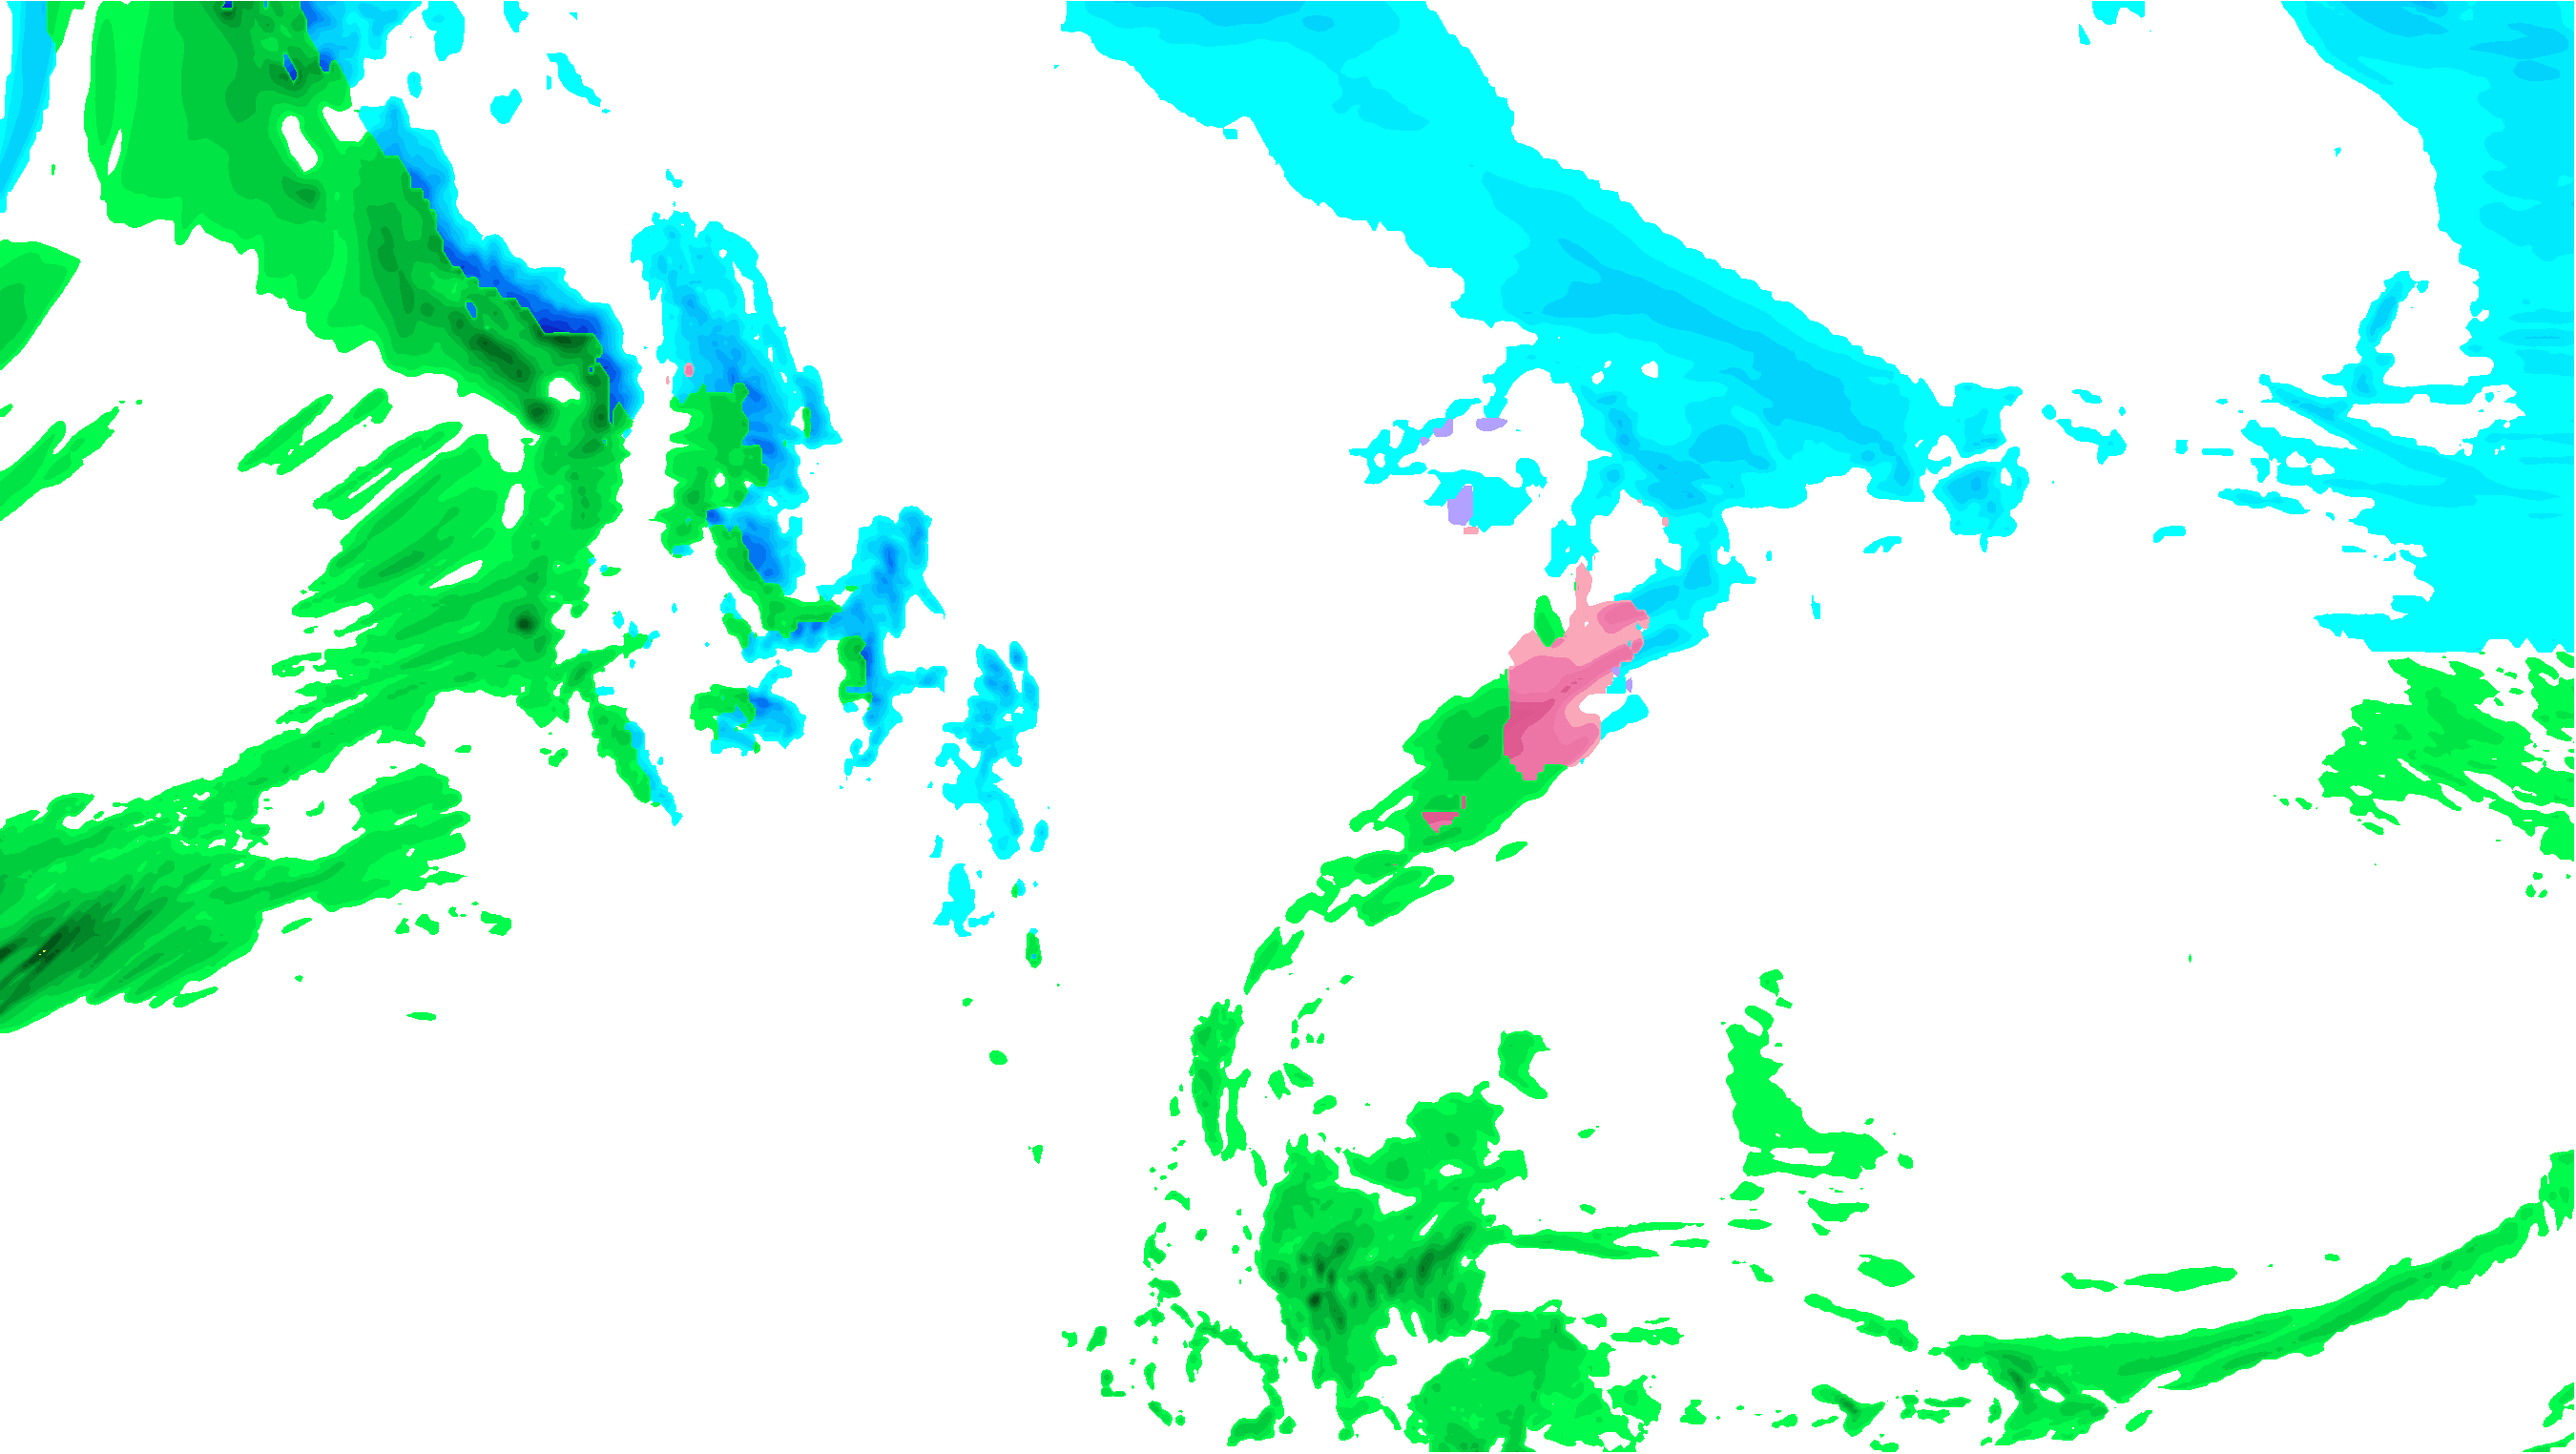
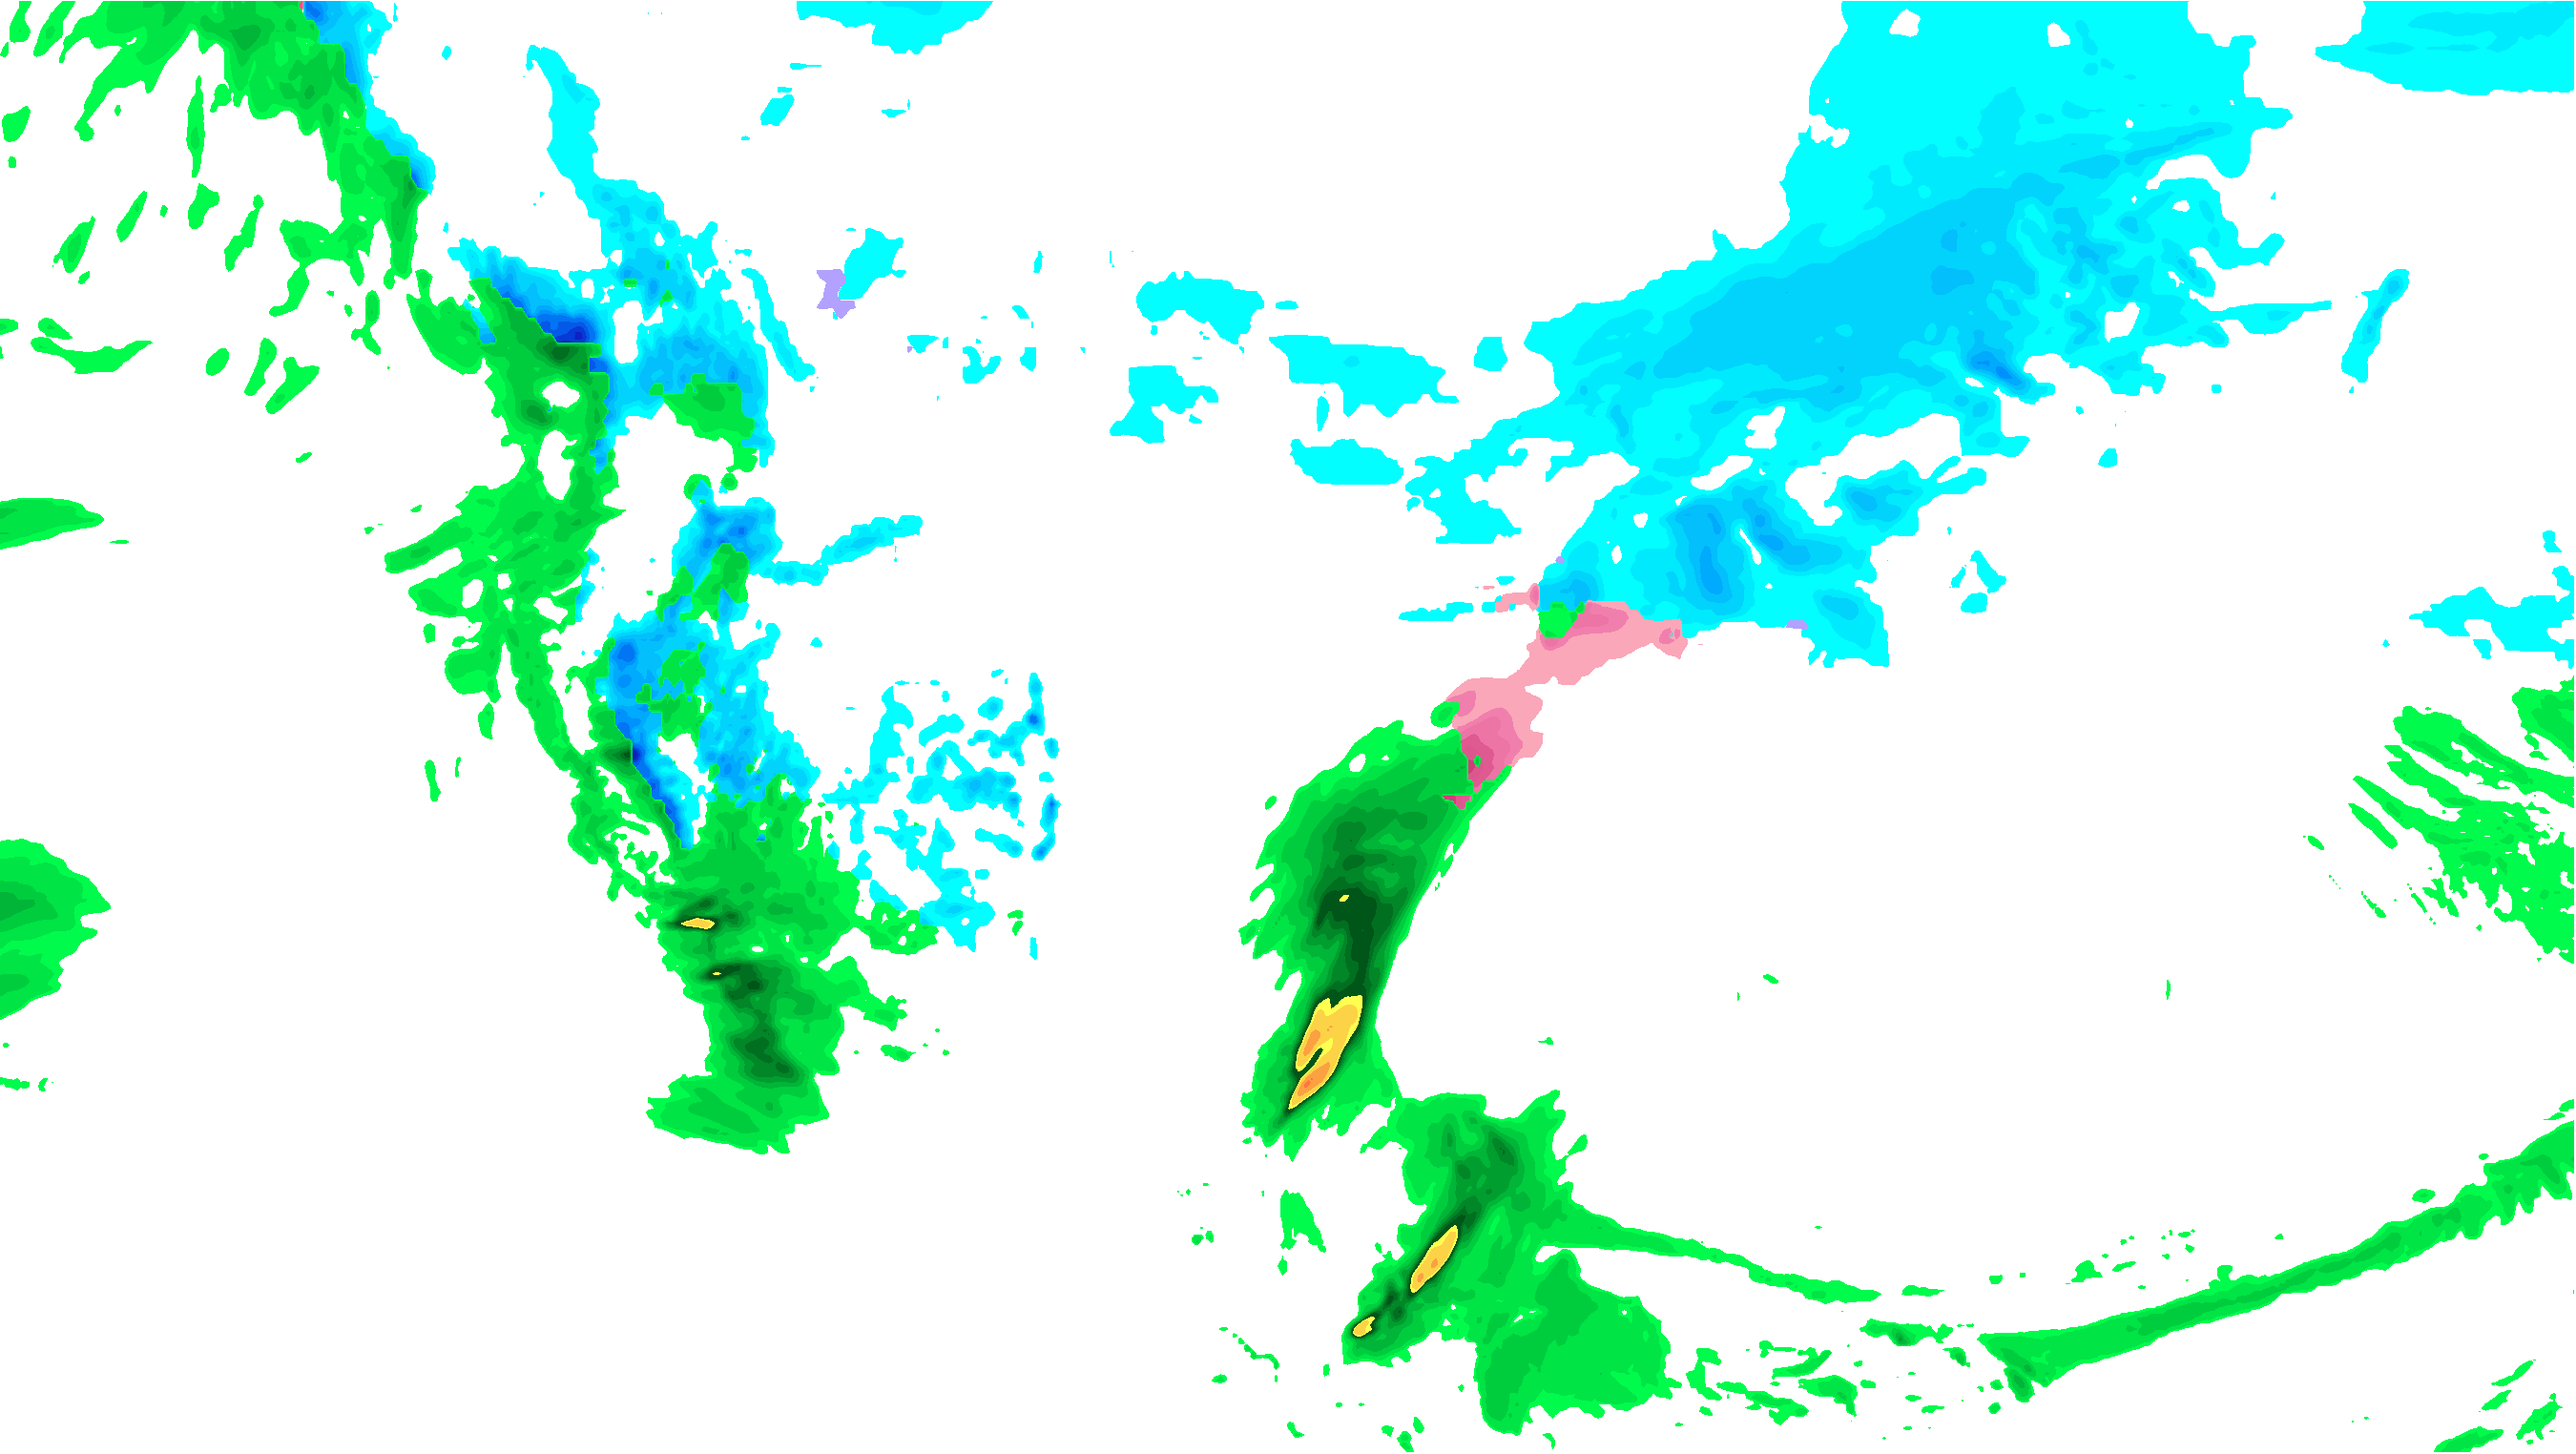
January 21, 2024 Update
Push new maps

diff --git a/index.html b/index.html
@@ -18,17 +18,17 @@
             <div id="map" class="webmap-new"></div>
           </div>
           <div class="map-info-embed">
-            <p id="currentDate" class="slider-header">Jan 14, 2024, 01 PM EST</p>
+            <p id="currentDate" class="slider-header">Jan 21, 2024, 7 AM EST</p>
           </div>
           <div class="sliderOverlay">
-            <input type="range" id="dateSlider" class="slider" min="0" max="39"" value="0" step="1">
+            <input type="range" id="dateSlider" class="slider" min="0" max="39" value="0" step="1">
           </div>
         </div>
         <img src="./precip-type-legend.png" id="legend" style="width:90%;margin-left:auto;margin-right:auto;display:block;">
       </div>
       <div class="right-div">
         <div class="map-layers">
-          <p><u>GFS 0.25 Degree</u></p>
+          <p><u>GFS v16.3</u></p>
           <ul class="checkbox-list">
             <li>
               <input type="checkbox" id="preciptype" name="weather" value="preciptype" checked>

diff --git a/main.js b/main.js
@@ -22,8 +22,8 @@ map.addControl(new mapboxgl.GeolocateControl({
 const dateTimes = [];
 
 // Set the start and end date
-const startDate = new Date('2024-01-14T18:00:00');
-const endDate = new Date('2024-01-30T23:00:00');
+const startDate = new Date('2024-01-21T12:00:00');
+const endDate = new Date('2024-02-10T23:00:00');
 
 // Loop through the hours between start and end dates
 let currentDate = startDate;

diff --git a/UCAR-GFS-P-Type.py b/UCAR-GFS-P-Type.py
@@ -1,15 +1,138 @@
+import os
+import glob
 import pygrib
+import numpy as np
 import xarray as xr
-import urllib.request
 import matplotlib.pyplot as plt
-from io import BytesIO
-from eccodes import *
+import cartopy.crs as ccrs
+from skimage.transform import resize
+import monarchlibrary as ml
+import urllib.request
+from datetime import datetime
 
-# ds = xr.open_dataset('./Data/GFS/MostRecent/gfs.t06z.atmf000.nc')
-                     
-# print(ds.ugrd)
+def iCheck(i):
+    i = str(i)
+    if len(i)==1:
+        i = '00'+i
+    elif len(i)==2:
+        i = '0'+i
+    return i
 
-ds = pygrib.open('./Data/GFS/MostRecent/gfs.t06z.sfluxgrbf013.grib2')
+def createMap():
+    # Initialize map
+    fig = plt.figure(figsize=(9, 9))
+    fig.tight_layout()
+    ax = plt.axes(projection=ccrs.Mercator()) # Change CRS here as needed
+    
+    # Set desired map extent
+    conus_wide = [-143.0,-50.2,16.5,56.8]
+    conus_extent = [-109.38,-59.91,26.43,51.69]
+    extent = conus_wide
+    ax.set_extent(extent,ccrs.PlateCarree())
+    
+    return ax, extent
+    
+def readLocalData(data_path,extent):
+    # Open the GRIB file
+    data_path = data_path
+    ds = pygrib.open(data_path)
 
-for var in ds:
-    print(var)
+    # Complete precipitation rate dataset
+    ds_prate = ds.select(name='Precipitation rate')[0]
+    
+    return ds_prate.data(lat1=extent[2],lat2=extent[3],lon1=extent[0]+360,lon2=extent[1]+360)
+
+def readCloudData(extent,prateShape,i):
+    # Open the NOMADS GFS file
+    ds = xr.open_dataset('http://nomads.ncep.noaa.gov:80/dods/gfs_0p25/gfs20240121/gfs_0p25_06z')
+        
+    cropped_ds = ds.sel(lat=slice(extent[2],extent[3]), lon=slice(extent[0]+360,extent[1]+360))
+    
+    #crain = np.nanmean(cropped_ds.crainsfc[0:2,:,:],axis=0)
+    #csnow = np.nanmean(cropped_ds.csnowsfc[0:2,:,:],axis=0)
+    #czr = np.nanmean(cropped_ds.cfrzrsfc[0:2,:,:],axis=0)
+    #cip = np.nanmean(cropped_ds.cicepsfc[0:2,:,:],axis=0)
+    
+    crain = cropped_ds.crainavesfc[int(int(i)/3),:,:]
+    csnow = cropped_ds.csnowavesfc[int(int(i)/3),:,:]
+    czr = cropped_ds.cfrzravesfc[int(int(i)/3),:,:]
+    cip = cropped_ds.cicepavesfc[int(int(i)/3),:,:]
+    
+    time = datetime.strptime(str(crain.time.data)[0:13],"%Y-%m-%dT%H")
+        
+    crain_resize = resize(crain,prateShape,order=1)
+    csnow_resize = resize(csnow,prateShape,order=1)
+    czr_resize = resize(czr,prateShape,order=1)
+    cip_resize = resize(cip,prateShape,order=1)
+    
+    return crain_resize, csnow_resize, czr_resize, cip_resize, time
+
+def buildMap(i, ax, extent):            
+    # Split out precip rate, latitude, and longitude
+    prate, lat, lon = readLocalData(f'./Data/GFS/MostRecent/{i}.grib2',extent)
+
+    crain, csnow, czr, cip, time = readCloudData(extent,np.array(prate).shape,i)
+
+    prate_rain = np.where(crain[::-1]>0.5,prate,0)
+    prate_snow = np.where(csnow[::-1]>0.5,prate,0)
+    prate_zr = np.where(czr[::-1]>0.5,prate,0)
+    prate_ip = np.where(cip[::-1]>0.5,prate,0)
+
+    # Define color variables for mapping
+    cmap_rain = ml.mapStyle.colors.cmap_rain
+    cmap_snow = ml.mapStyle.colors.cmap_snow
+    cmap_zr = ml.mapStyle.colors.cmap_zr
+    cmap_ip = ml.mapStyle.colors.cmap_ip
+    levels_rain = ml.mapStyle.colors.levels_rain
+    levels_snow = ml.mapStyle.colors.levels_snow
+    levels_zr = ml.mapStyle.colors.levels_zr
+    levels_ip = ml.mapStyle.colors.levels_ip
+    norm_rain = ml.mapStyle.colors.norm_rain
+    norm_snow = ml.mapStyle.colors.norm_snow
+    norm_zr = ml.mapStyle.colors.norm_zr
+    norm_ip = ml.mapStyle.colors.norm_ip
+       
+    # Plot prate on map using contour fill         
+    
+    cs = ax.contourf(lon, lat, ((prate_snow*0.039370)*60*60), cmap=cmap_snow, norm=norm_snow, levels=levels_snow, transform=ccrs.PlateCarree())
+    czr = ax.contourf(lon, lat, ((prate_zr*0.039370)*60*60), cmap=cmap_zr, norm=norm_zr, levels=levels_zr, transform=ccrs.PlateCarree())
+    cip = ax.contourf(lon, lat, ((prate_ip*0.039370)*60*60), cmap=cmap_ip, norm=norm_ip, levels=levels_ip, transform=ccrs.PlateCarree())
+    cr = ax.contourf(lon, lat, ((prate_rain*0.039370)*60*60), cmap=cmap_rain, norm=norm_rain, levels=levels_rain, transform=ccrs.PlateCarree())
+
+    # Remove white space
+    plt.gca().set_axis_off()
+    plt.subplots_adjust(top = 1, bottom = 0, right = 1, left = 0, hspace = 0, wspace = 0)
+    plt.margins(0,0)
+    plt.gca().xaxis.set_major_locator(plt.NullLocator())
+    plt.gca().yaxis.set_major_locator(plt.NullLocator())
+
+    # Save map
+    plt.savefig(f'./Exports/GFS/ptype/{time.strftime("%Y%m%d%H")}.png',bbox_inches='tight',dpi=300,pad_inches=0, transparent=True)
+    
+    # Remove the rain contours
+    for coll1, coll2, coll3, coll4 in zip(cr.collections,cs.collections,czr.collections,cip.collections):
+        coll1.remove()
+        coll2.remove()
+        coll3.remove()
+        coll4.remove()
+            
+def startScript():
+    files = glob.glob('./Data/GFS/MostRecent/*')
+    for f in files:
+        os.remove(f)
+        
+    files = glob.glob('./Exports/GFS/ptype/*')
+    for f in files:
+        os.remove(f)
+    
+    ax, extent = createMap() 
+
+    for i in np.arange(6,246,6):
+        i = iCheck(i)
+        print(i)
+        url = f'https://nomads.ncep.noaa.gov/pub/data/nccf/com/gfs/v16.3/gfs.20240121/06/atmos/gfs.t06z.sfluxgrbf{i}.grib2'
+        urllib.request.urlretrieve(url,f'./Data/GFS/MostRecent/{i}.grib2')
+        
+        buildMap(i,ax,extent)
+
+startScript()

diff --git a/monarchlibrary.py b/monarchlibrary.py
@@ -1,0 +1,41 @@
+# -*- coding: utf-8 -*-
+"""
+Created on Fri Jan 12 17:37:30 2024
+
+@author: Administrator
+"""
+
+import matplotlib.pyplot as plt
+from matplotlib.colors import BoundaryNorm
+
+class mapStyle:
+        class colors:
+            colors_rain = [(0.1,0.1,0.1,0),'#00FB4C','#00E445','#00CD3E','#00B537','#009E2E','#018628','#016F20','#005518','#FFFF50','#FCD347','#FBA141','#FF763B','#FF272B','#D80E3A','#B6093D','#900649','#C90DA9','#FF04DC']
+            cmap_rain = plt.cm.colors.ListedColormap(colors_rain)
+            levels_rain = [0,0.005,0.01,0.025,0.05,0.075,0.1,0.125,0.15,0.2,0.25,0.375,0.5,0.625,0.75,0.875,1,1.5,10]
+            norm_rain = BoundaryNorm(levels_rain, cmap_rain.N, clip=True)
+            
+            colors_snow = [(0.1,0.1,0.1,0),'#02FEFE','#00EAFD','#01D3FD','#03BFFC','#00AAFC','#0092FC','#0275F2','#0459E8','#073AD6','#0D23C4','#0A1DBB','#05159B','#291099','#490C92','#AC0F8B','#CC0D8F','#FF0C80']
+            cmap_snow = plt.cm.colors.ListedColormap(colors_snow)
+            levels_snow = [0,0.001,0.005,0.01,0.02,0.03,0.04,0.05,0.075,0.1,0.125,0.15,0.175,0.2,0.25,0.3,0.4,0.5,1]
+            norm_snow = BoundaryNorm(levels_snow, cmap_snow.N, clip=True)
+            
+            colors_zr = [(0.1,0.1,0.1,0),'#FAA7B9','#F17FAD','#EC75A6','#DE5A91','#DD578F','#D13D7B','#C6276C','#B80E61','#AA0547','#B90B44','#B71621','#CC1626','#CF1A1E','#DC2C09','#E53206','#FB4100','#FF5215']
+            cmap_zr = plt.cm.colors.ListedColormap(colors_zr)
+            levels_zr = [0,0.001,0.005,0.01,0.02,0.03,0.04,0.05,0.075,0.1,0.125,0.15,0.175,0.2,0.25,0.3,0.4,0.5,1]
+            norm_zr = BoundaryNorm(levels_zr, cmap_zr.N, clip=True)
+            
+            colors_ip = [(0.1,0.1,0.1,0),'#B2A1FF','#B688FF','#BD75FE','#C560FD','#C257F9','#B938EA','#B52DE4','#AE28DB','#8F13B1','#9113B0','#A61EA0','#B50D9A','#B70E8F','#C92C79','#D13976','#D73F6A','#E04855']
+            cmap_ip = plt.cm.colors.ListedColormap(colors_ip)
+            levels_ip = [0,0.001,0.005,0.01,0.02,0.03,0.04,0.05,0.075,0.1,0.125,0.15,0.175,0.2,0.25,0.3,0.4,0.5,1]
+            norm_ip = BoundaryNorm(levels_ip, cmap_ip.N, clip=True)
+            
+            colors_accusnow = [(0.1,0.1,0.1,0), '#E1E1E1', '#C8C8C8', '#AFAFAF', '#969696', '#A9E7F2', '#73BFD7', '#3C98BB', '#0270A0', '#0046B0', '#2864BC', '#4D82C8', '#74A0D3','#9ABEDF','#C1DCEB','#C9ADDB','#C195D2','#B97EC9','#B066C1','#A84FB8','#A037AF','#870A47','#971C5A','#A72D6E','#B63F81','#C65095','#D663A8','#EBA7B7','#E89BA1','#E78F8A','#E38274','#E2765D','#DE6A47','#DC8150','#E19568','#E6A97F','#ECBD97','#F1D1AF','#F6E5C6','#FCF9DE']
+            cmap_accusnow = plt.cm.colors.ListedColormap(colors_accusnow)
+            levels_accusnow = [0, 0.1, 0.25, 0.5, 0.75, 1, 1.5, 2, 2.5, 3, 3.5, 4, 4.5, 5, 5.5, 6, 7, 8, 9, 10, 11, 12, 14, 16, 18, 20, 22, 24, 26, 28, 30, 32, 34, 36, 40, 44, 48, 52, 56, 60, 1000]
+            norm_accusnow = BoundaryNorm(levels_accusnow, cmap_accusnow.N, clip=True)
+            
+            colors_accuprecip = [(0.1,0.1,0.1,0), '#B1EDCF', '#97D8B7', '#7DC19E', '#62AA85', '#48936D', '#2F7E54', '#15673C', '#15678C', '#337E9F', '#5094B6', '#6EACC8', '#8BC4DE','#A9DBF2','#EBD5EB','#D9BED8','#C5A7C5','#B38FB2','#A0779F','#8E5F8D','#7A4779','#682F67','#6C0233','#87253B','#A54945','#C16E4E','#DE9357','#FAC66C','#FBD479','#FDE385','#FEF192','#FFFF9F']
+            cmap_accuprecip = plt.cm.colors.ListedColormap(colors_accuprecip)
+            levels_accuprecip = [0,0.01,0.05,0.1,0.15,0.2,0.3,0.4,0.5,0.75,1,1.25,1.5,1.75,2,2.5,3,3.5,4,4.5,5,5.5,6,7,8,9,10,12,14,16,20,24,1000]
+            norm_accuprecip = BoundaryNorm(levels_accuprecip, cmap_accuprecip.N, clip=True)
